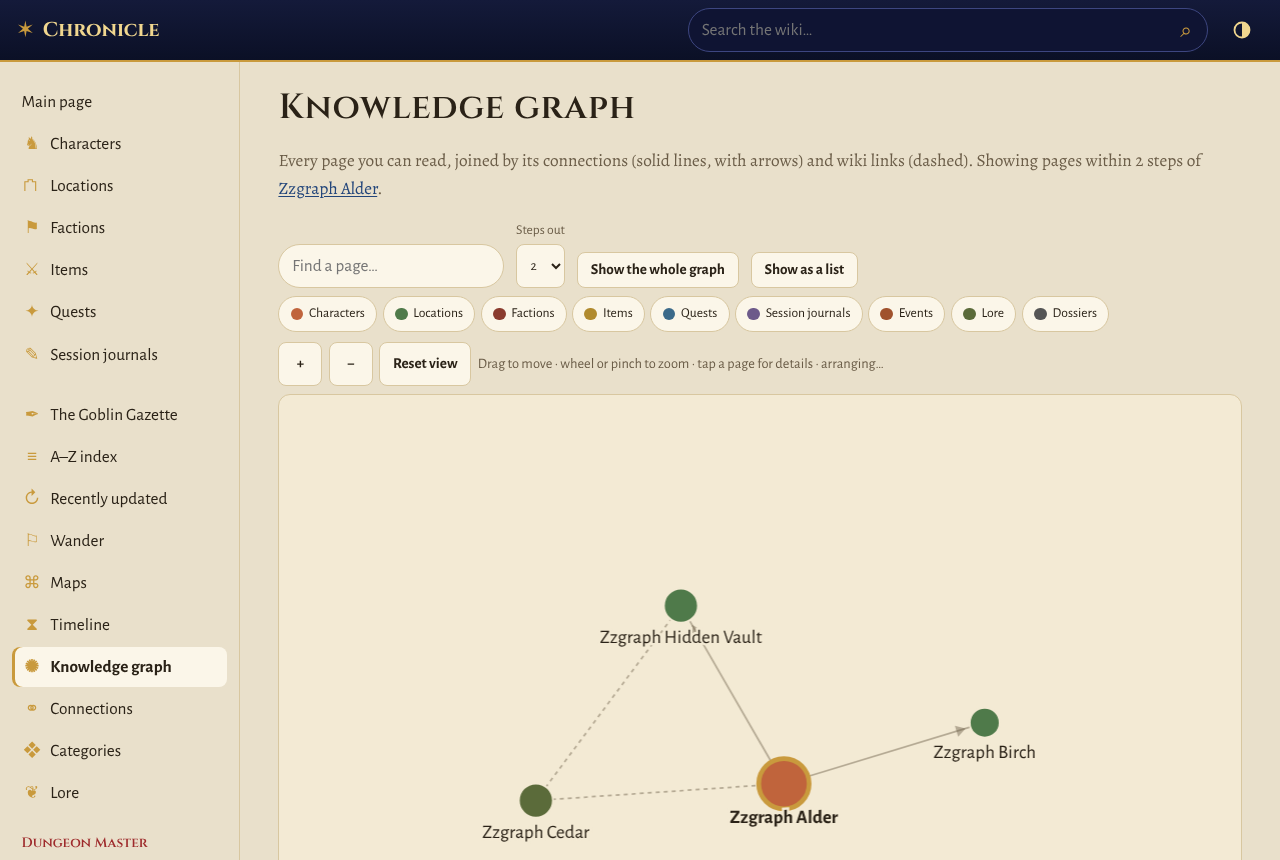
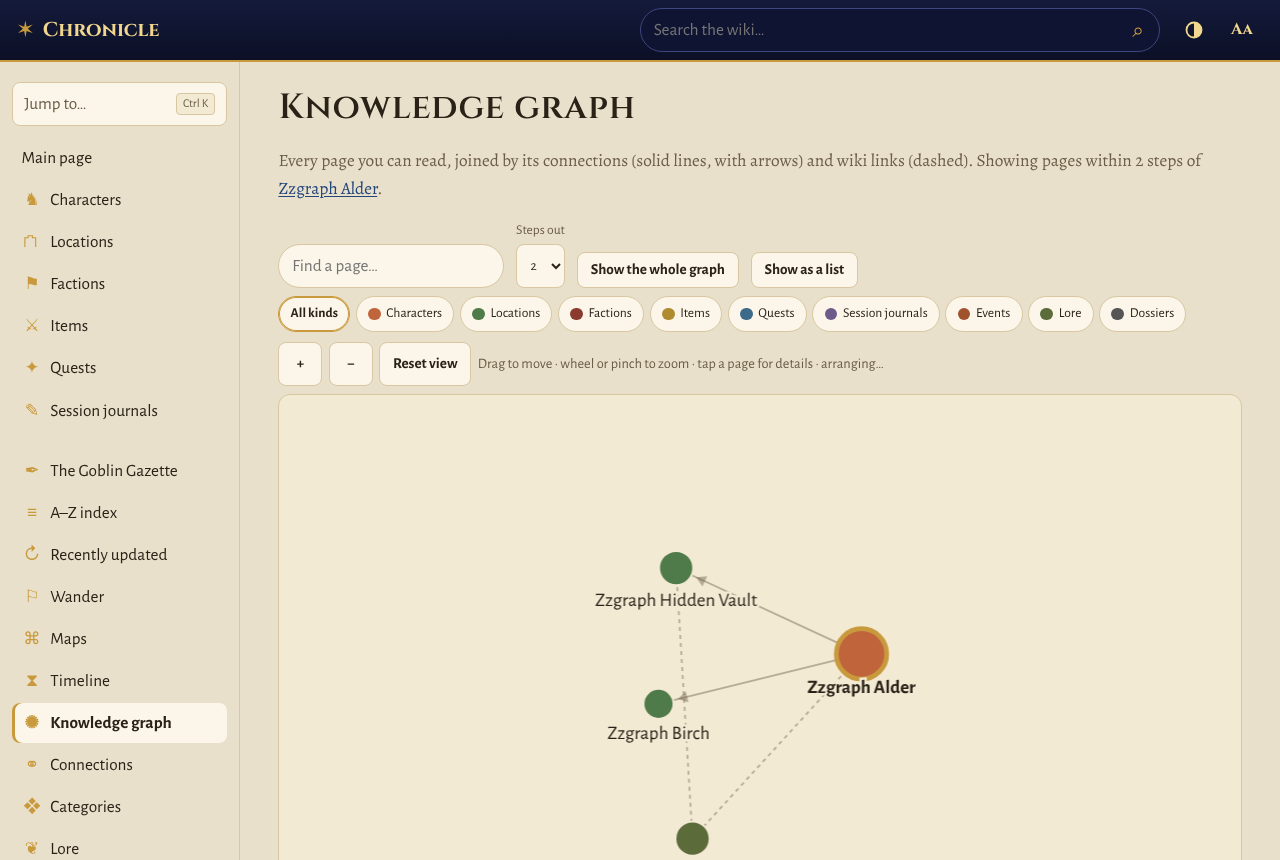
fix(chronicle): graph kind filters and org chart lists announce correctly; screenshots
- Knowledge graph: a new "All kinds" choice is the pressed one when no kind filter is set, and
  clears the filter. Before, every kind looked on while screen readers heard each as not pressed.
  Kinds outside an active filter are dimmed; chosen ones are outlined.
- Faction organisation chart: each rank's member list is named ("Guildmaster of <faction>").
- Screenshots (synthetic data, only with SAVE_DOC_SHOTS=1): command palette, organisation chart,
  maintenance notice; knowledge graph refreshed. Embedded in WEBSITE-FEATURES.md.

Tests: graph.spec.ts and org-chart.spec.ts assert the new names and pressed states.
Full local run: lint 0, typecheck 0, unit 199/199, database 311/311, browser 91/91, build OK.

Claude-Session: https://claude.ai/code/session_017rbT6VJrn7hQcnTknmJvb7

diff --git a/chronicle-cloud/src/styles/theme.css b/chronicle-cloud/src/styles/theme.css
@@ -848,8 +848,9 @@ textarea { font-family: var(--font-body) !important; line-height: 1.5; resize: v
 .graph-toolbar { display: flex; flex-wrap: wrap; align-items: end; gap: 0.5rem 0.75rem; margin-bottom: 0.5rem; }
 .graph-search input { min-height: 44px; min-width: min(18rem, 100%); padding: 0.4rem 0.8rem; border: 1px solid var(--line); border-radius: 999px; background: var(--surface); color: var(--text); font: inherit; font-family: var(--font-ui); }
 .graph-legend { display: flex; flex-wrap: wrap; gap: 0.35rem; margin-bottom: 0.6rem; }
-.graph-kind { display: inline-flex; align-items: center; gap: 0.35rem; min-height: 36px; padding: 0.2rem 0.7rem; border-radius: 999px; border: 1px solid var(--line); background: var(--surface); color: var(--muted); font-family: var(--font-ui); font-size: 0.85rem; cursor: pointer; opacity: 0.6; }
-.graph-kind.on { opacity: 1; color: var(--text); }
+.graph-kind { display: inline-flex; align-items: center; gap: 0.35rem; min-height: 36px; padding: 0.2rem 0.7rem; border-radius: 999px; border: 1px solid var(--line); background: var(--surface); color: var(--text); font-family: var(--font-ui); font-size: 0.85rem; cursor: pointer; }
+.graph-kind[aria-pressed='true'] { border-color: var(--gold); box-shadow: inset 0 0 0 1px var(--gold); font-weight: 600; }
+.graph-kind.off { opacity: 0.55; color: var(--muted); }
 .graph-dot { display: inline-block; width: 0.8rem; height: 0.8rem; border-radius: 50%; flex: none; }
 .graph-wrap { display: grid; gap: 0.5rem; }
 .graph-canvas { width: 100%; height: min(72vh, 720px); border: 1px solid var(--line); border-radius: 12px; background: var(--surface-2); touch-action: none; cursor: grab; display: block; }

diff --git a/chronicle-cloud/tests/e2e/org-chart.spec.ts b/chronicle-cloud/tests/e2e/org-chart.spec.ts
@@ -1,9 +1,12 @@
+import path from 'node:path';
 import { expect, test } from '@playwright/test';
 import { db } from './db.ts';
 import { enrollAsPlayer, noHorizontalOverflow, recordApi, signInAsDm } from './support.ts';
 
 // Faction organisation chart from "Member of" connections, made and removed here: a guild with a
 // leader, a plain member, a sub-faction with a captain, and a DM-only spy and DM-only membership.
+
+const docsShots = path.resolve(import.meta.dirname, '../../../docs/chronicle/screenshots');
 
 const S = { guild: 'zz-org-guild', wing: 'zz-org-wing', lead: 'zz-org-lead', mem: 'zz-org-member', cap: 'zz-org-captain', spy: 'zz-org-spy', mole: 'zz-org-mole' };
 
@@ -40,6 +43,9 @@ test.describe('Faction organisation chart', () => {
     await expect(chart.locator('.org-rank').first()).toHaveText('Guildmaster');
     for (const name of ['Zzorg Leader', 'Zzorg Member', 'Zzorg Captain', 'Zzorg Spy', 'Zzorg Mole']) await expect(chart.getByRole('link', { name })).toBeVisible();
     await expect(chart.getByRole('link', { name: 'Zzorg Night Wing' })).toHaveAttribute('href', `/wiki/${S.wing}`);
+    // Each rank's list is named for screen readers.
+    await expect(chart.getByRole('list', { name: 'Guildmaster of Zzorg Guild' }).getByRole('link', { name: 'Zzorg Leader' })).toBeVisible();
+    if (process.env.SAVE_DOC_SHOTS === '1') await chart.screenshot({ path: path.join(docsShots, 'org-chart.png') });
 
     const context = await browser.newContext({ viewport: { width: 390, height: 844 } });
     const bodies = recordApi(context);

diff --git a/chronicle-cloud/tests/e2e/graph.spec.ts b/chronicle-cloud/tests/e2e/graph.spec.ts
@@ -56,11 +56,16 @@ test.describe('Knowledge graph', () => {
 
     // Kind filters are kept in the address and remembered after a reload.
     await page.getByRole('button', { name: 'Show as a graph' }).click();
+    // With no filter, "All kinds" is the pressed choice and no single kind claims to be.
+    await expect(page.getByRole('group', { name: 'Kinds of page shown' }).getByRole('button', { name: 'All kinds' })).toHaveAttribute('aria-pressed', 'true');
+    await expect(page.getByRole('group', { name: 'Kinds of page shown' }).getByRole('button', { name: 'Characters' })).toHaveAttribute('aria-pressed', 'false');
     await page.getByRole('group', { name: 'Kinds of page shown' }).getByRole('button', { name: 'Characters' }).click();
     await expect(page).toHaveURL(/types=character/);
     await page.goto('/graph');
     await expect(page.getByRole('group', { name: 'Kinds of page shown' }).getByRole('button', { name: 'Characters' })).toHaveAttribute('aria-pressed', 'true');
-    await page.getByRole('group', { name: 'Kinds of page shown' }).getByRole('button', { name: 'Characters' }).click();
+    await expect(page.getByRole('group', { name: 'Kinds of page shown' }).getByRole('button', { name: 'All kinds' })).toHaveAttribute('aria-pressed', 'false');
+    await page.getByRole('group', { name: 'Kinds of page shown' }).getByRole('button', { name: 'All kinds' }).click();
+    await expect(page).not.toHaveURL(/types=/);
 
     if (process.env.SAVE_DOC_SHOTS === '1') {
       await page.setViewportSize({ width: 1280, height: 860 });

diff --git a/chronicle-cloud/tests/e2e/maintenance.spec.ts b/chronicle-cloud/tests/e2e/maintenance.spec.ts
@@ -1,8 +1,11 @@
+import path from 'node:path';
 import { expect, test } from '@playwright/test';
 import { enrollAsPlayer } from './support.ts';
 
 // The maintenance notice: the real /api/status function (no switch set locally, so no notice), its
 // refusal of unauthenticated writes, and the banner when the status says maintenance is on.
+
+const docsShots = path.resolve(import.meta.dirname, '../../../docs/chronicle/screenshots');
 
 test.describe('Maintenance notice', () => {
   test('off by default; writes need the token; the banner shows the exact message when on', async ({ page, request }) => {
@@ -21,6 +24,7 @@ test.describe('Maintenance notice', () => {
     await page.reload();
     await expect(page.getByTestId('maintenance-notice')).toContainText(message);
     await expect(page.getByTestId('maintenance-notice')).toHaveAttribute('role', 'status');
+    if (process.env.SAVE_DOC_SHOTS === '1') await page.screenshot({ path: path.join(docsShots, 'maintenance-notice.png'), clip: { x: 0, y: 0, width: page.viewportSize()!.width, height: 260 } });
 
     // A status outage shows nothing rather than a false alarm.
     await page.route('**/api/status', (route) => route.fulfill({ status: 503, body: 'down' }));

diff --git a/chronicle-cloud/tests/e2e/palette.spec.ts b/chronicle-cloud/tests/e2e/palette.spec.ts
@@ -1,8 +1,11 @@
+import path from 'node:path';
 import { expect, test } from '@playwright/test';
 import { enrollAsPlayer, noHorizontalOverflow, signInAsDm } from './support.ts';
 
 // Command palette: keyboard shortcut, page search, commands, DM-only commands hidden from players,
 // Escape returns focus, and a visible "Jump to…" button for people who do not use shortcuts.
+
+const docsShots = path.resolve(import.meta.dirname, '../../../docs/chronicle/screenshots');
 
 test.describe('Command palette', () => {
   test('the DM jumps to pages and DM tools by keyboard', async ({ page }) => {
@@ -16,6 +19,7 @@ test.describe('Command palette', () => {
 
     await box.fill('what players');
     await expect(dialog.getByRole('option', { name: /What players can see/ })).toBeVisible();
+    if (process.env.SAVE_DOC_SHOTS === '1') await page.screenshot({ path: path.join(docsShots, 'command-palette.png') });
     await page.keyboard.press('Enter');
     await expect(page).toHaveURL(/\/dm\/visibility$/);
     await expect(dialog).toHaveCount(0);

diff --git a/chronicle-cloud/src/pages/GraphPage.tsx b/chronicle-cloud/src/pages/GraphPage.tsx
@@ -119,8 +119,11 @@ export function GraphPage() {
         </button>
       </div>
       <div className="graph-legend" role="group" aria-label="Kinds of page shown">
+        <button type="button" className="graph-kind" aria-pressed={p.types.length === 0} onClick={() => p.set({ types: null })}>
+          All kinds
+        </button>
         {TYPE_ORDER.map((t) => (
-          <button key={t} type="button" className={p.types.length === 0 || p.types.includes(t) ? 'graph-kind on' : 'graph-kind'} aria-pressed={p.types.includes(t)} onClick={() => toggleType(t)}>
+          <button key={t} type="button" className={p.types.length > 0 && !p.types.includes(t) ? 'graph-kind off' : 'graph-kind'} aria-pressed={p.types.includes(t)} onClick={() => toggleType(t)}>
             <span className="graph-dot" style={{ background: TYPE_COLOURS[t] }} aria-hidden="true" />
             {TEMPLATES[t].plural}
           </button>

diff --git a/chronicle-cloud/src/components/OrgChart.tsx b/chronicle-cloud/src/components/OrgChart.tsx
@@ -28,7 +28,7 @@ function Unit({ unit, root = false }: { unit: OrgUnit; root?: boolean }) {
           {unit.groups.map((g) => (
             <li key={g.rank} className="org-group">
               <span className="org-rank">{g.rank}</span>
-              <ul className="org-members">
+              <ul className="org-members" aria-label={`${g.rank} of ${unit.faction.title}`}>
                 {g.members.map((m) => <li key={m.id}><Link className="chip" to={`/wiki/${m.slug}`}>{m.title}</Link></li>)}
               </ul>
             </li>

diff --git a/docs/chronicle/WEBSITE-FEATURES.md b/docs/chronicle/WEBSITE-FEATURES.md
@@ -178,6 +178,8 @@ count.
 
 ![Knowledge graph](screenshots/knowledge-graph.png)
 
+The kind filters start on **All kinds**. Choosing kinds narrows the graph; **All kinds** clears the choice. Screen readers hear which choice is on.
+
 ## N. Command palette (everyone)
 Press Ctrl+K (Cmd+K on Mac) or "/" anywhere, or use **Jump to…** at the top of the menu.
 
@@ -187,6 +189,8 @@ Press Ctrl+K (Cmd+K on Mac) or "/" anywhere, or use **Jump to…** at the top of
 - Escape closes it.
 
 DM tools only appear for the DM.
+
+![Command palette](screenshots/command-palette.png)
 
 ## O. Search operators (everyone)
 On the search page:
@@ -211,6 +215,8 @@ faction.
 
 Tip for the DM: put the rank in the label of the connection.
 
+![Faction organisation chart](screenshots/org-chart.png)
+
 ## R. Recently updated, by kind (everyone)
 `/recent` has kind buttons, so you can see only one kind of page (for example only characters).
 
@@ -230,6 +236,8 @@ When maintenance is on, every page shows: "Declan is currently performing mainte
 Some features may be temporarily unavailable or behave unexpectedly. Please save your work before
 refreshing." Set-up and options: see [MAINTENANCE-NOTICE.md](MAINTENANCE-NOTICE.md). Not configured
 on the live site yet.
+
+![Maintenance notice](screenshots/maintenance-notice.png)
 
 ## Waiting for approval (third sprint)
 Bookmarks and reading lists, personal notes, the Investigation Board, the Mystery Studio, the
